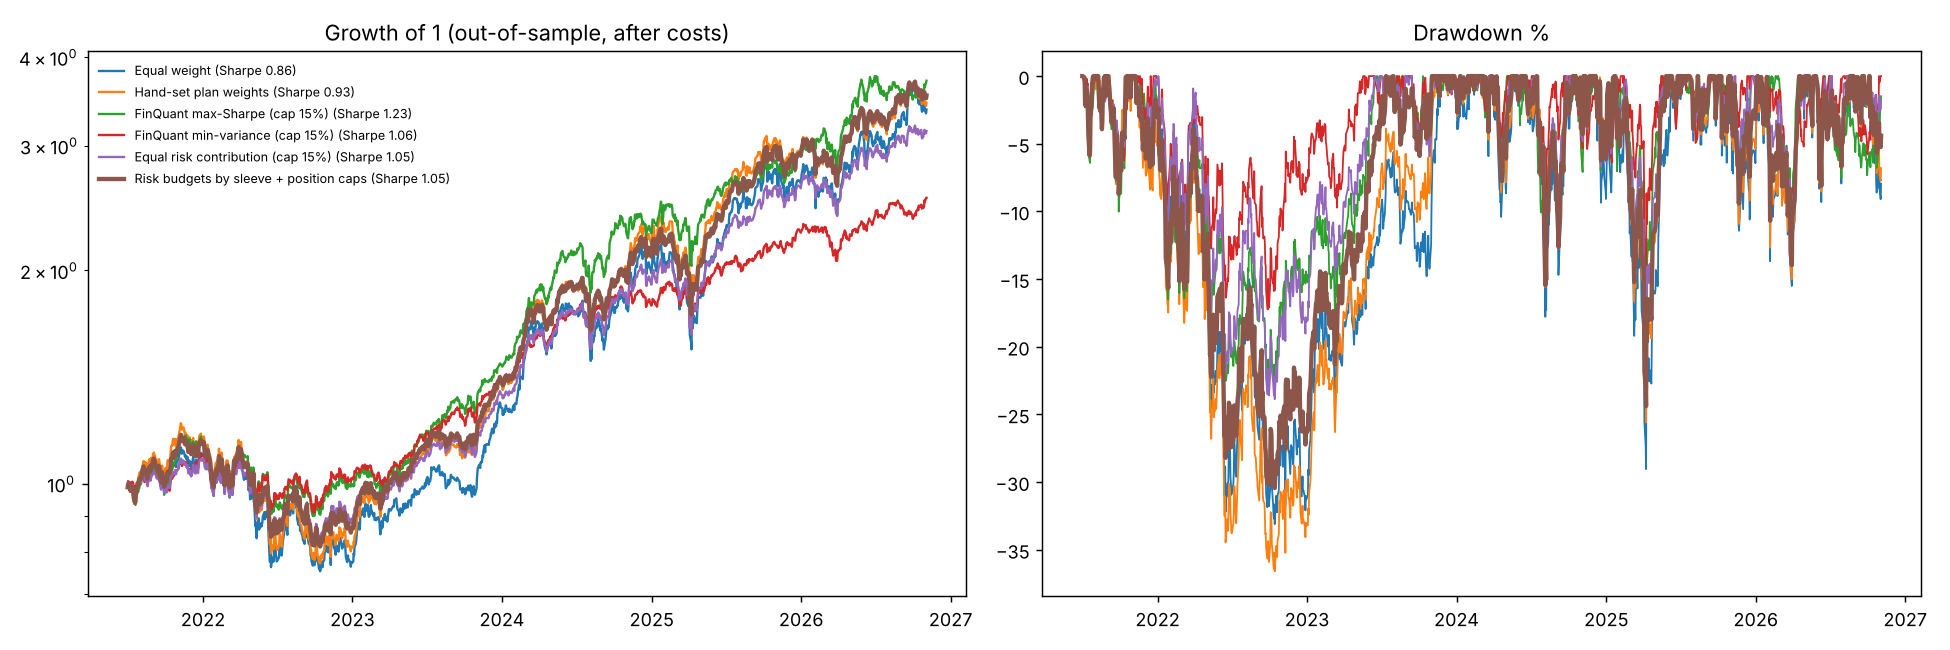
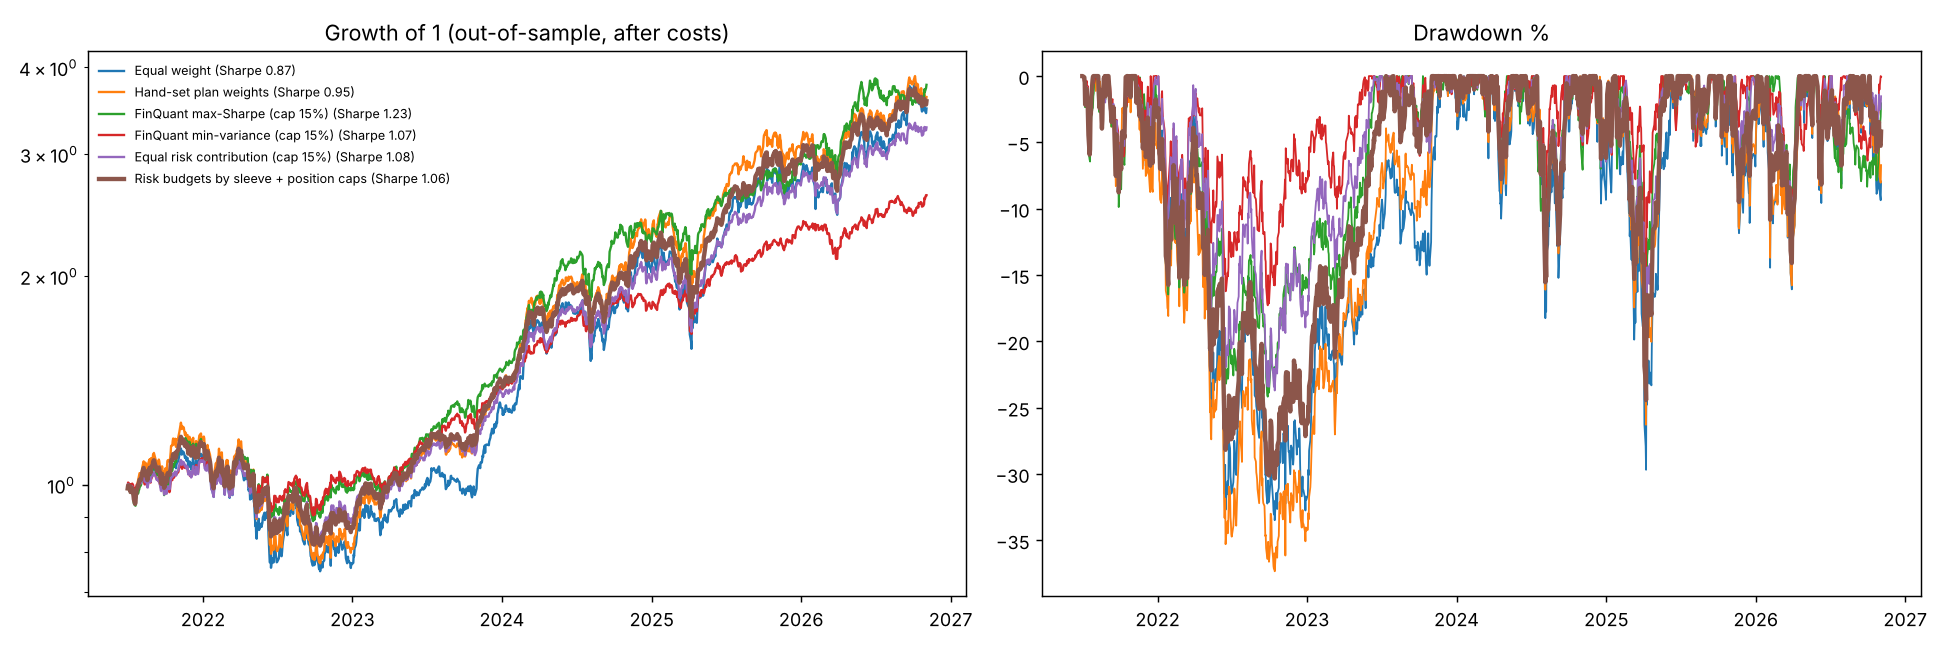
Policy: optional VEU (excluded by default), --include flag; refresh and correct validation numbers in IPS/MY_PLAN
Claude-Session: https://claude.ai/code/session_01NJmfEZVHQN9Pen9tTm1HFs

diff --git a/scripts/construct.py b/scripts/construct.py
@@ -44,7 +44,7 @@ POLICY = json.loads((ROOT / "data" / "policy.json").read_text())
 TARGETS = json.loads((ROOT / "data" / "targets.json").read_text())
 YAHOO = {"BTC": "BTC-USD", "ETH": "ETH-USD", "UNI": "UNI7083-USD", "NEAR": "NEAR-USD", "QQQM": "QQQM", "SMH": "SMH", "NVDA": "NVDA", "SKHY": "SKHY",
          "QTUM": "QTUM", "VST": "VST", "ITA": "ITA", "NLR": "NLR", "UFO": "UFO", "LLY": "LLY", "HOOD": "HOOD", "GEV": "GEV", "PICK": "PICK",
-         "INDA": "INDA", "CRSP": "CRSP", "V": "V", "MA": "MA", "WORLD": "VT"}  # WORLD is priced with VT (all-world, USD) for history
+         "INDA": "INDA", "CRSP": "CRSP", "V": "V", "MA": "MA", "WORLD": "VT", "VEU": "VEU"}  # WORLD is priced with VT (all-world, USD) for history
 COST = {"crypto": 0.0025}  # one-way cost: crypto 25bp, everything else 10bp (assumptions)
 NAMES = [n for n in POLICY["sleeves"] if n not in POLICY.get("exclude", [])]
 
@@ -63,7 +63,7 @@ def panel(start="2017-06-01") -> pd.DataFrame:
     cal = px["QQQ"].dropna().index
     P = px.reindex(cal).ffill(limit=5)
     out = pd.DataFrame(index=cal)
-    for n in NAMES:
+    for n in POLICY["sleeves"]:
         out[n] = P[YAHOO[n]]
     # QQQM <- QQQ (same market, near-identical): scale at the junction
     q, qq = out["QQQM"].dropna(), P["QQQ"]
@@ -264,12 +264,16 @@ def main():
     ap.add_argument("--validate", action="store_true")
     ap.add_argument("--build", action="store_true")
     ap.add_argument("--preset", choices=list(POLICY.get("presets", {})), help="risk-budget preset from data/policy.json (default: active_preset)")
+    ap.add_argument("--include", nargs="*", default=[], help="un-exclude positions listed in policy 'exclude' (e.g. VEU)")
     ap.add_argument("--no-write", action="store_true", help="do not write targets_optimised.json / construction.md")
     ap.add_argument("--out", default=str(ROOT / "reports" / "latest"))
     a = ap.parse_args()
     out = pathlib.Path(a.out)
     POLICY["risk_budget_pct"] = POLICY["presets"][a.preset or POLICY["active_preset"]]
-    P = panel()
+    global NAMES
+    POLICY["exclude"] = [x for x in POLICY.get("exclude", []) if x not in a.include]
+    NAMES = [n for n in POLICY["sleeves"] if n not in POLICY["exclude"]]
+    P = panel()[NAMES]
     md = ["# Portfolio construction", ""]
     if a.validate:
         series, turn, navg = walk_forward(P)

diff --git a/reports/latest/construction.md b/reports/latest/construction.md
@@ -1,20 +1,20 @@
 # Portfolio construction
 
-## 1. Out-of-sample validation (2021-07-01 to 2026-11-03, monthly refit on the previous 3 years, ~21 assets available on average)
+## 1. Out-of-sample validation (2021-07-01 to 2026-11-03, monthly refit on the previous 3 years, ~20 assets available on average)
 | Method | CAGR % | vol % | Sharpe | max drawdown % | worst 20d % | turnover %/yr |
 |---|---|---|---|---|---|---|
-| Equal weight | 25.7 | 26.3 | 0.86 | -33.1 | -18.7 | 60.0 |
-| Hand-set plan weights | 26.2 | 24.8 | 0.93 | -36.6 | -17.1 | 52.1 |
-| FinQuant max-Sharpe (cap 15%) | 27.9 | 20.2 | 1.23 | -23.1 | -15.5 | 109.0 |
-| FinQuant min-variance (cap 15%) | 19.1 | 15.2 | 1.06 | -17.3 | -10.4 | 48.3 |
-| Equal risk contribution (cap 15%) | 24.0 | 20.1 | 1.05 | -23.9 | -13.6 | 50.2 |
-| Risk budgets by sleeve + position caps | 26.7 | 22.6 | 1.05 | -30.4 | -14.7 | 53.2 |
+| Equal weight | 26.5 | 27.0 | 0.87 | -33.5 | -19.1 | 61.7 |
+| Hand-set plan weights | 27.4 | 25.6 | 0.95 | -37.3 | -17.5 | 53.9 |
+| FinQuant max-Sharpe (cap 15%) | 28.3 | 20.5 | 1.23 | -24.2 | -15.4 | 99.3 |
+| FinQuant min-variance (cap 15%) | 19.8 | 15.8 | 1.07 | -17.3 | -10.8 | 52.5 |
+| Equal risk contribution (cap 15%) | 25.0 | 20.4 | 1.08 | -23.7 | -13.8 | 52.1 |
+| Risk budgets by sleeve + position caps | 27.0 | 22.7 | 1.06 | -30.3 | -14.7 | 53.7 |
 
 Costs: 10bp per side (25bp crypto). All methods see the same hindsight-picked universe, so compare rows against each other.
 ## 2. Optimised targets (% of whole book, 5% cash on top) vs my hand-set ones
 | Ticker | now % | optimised A | optimised B | optimised C | hand-set A | hand-set B | hand-set C |
 |---|---|---|---|---|---|---|---|
-| BTC | 22.0 | 12.5 | 12.1 | 11.3 | 17.0 | 14.5 | 13.0 |
+| BTC | 21.9 | 12.5 | 12.1 | 11.3 | 17.0 | 14.5 | 13.0 |
 | CRSP | 0.0 | 0.0 | 0.0 | 2.3 | 0.0 | 0.0 | 2.0 |
 | ETH | 9.1 | 5.0 | 4.8 | 4.5 | 6.0 | 5.0 | 4.5 |
 | GEV | 0.0 | 0.0 | 2.8 | 2.2 | 0.0 | 3.0 | 3.0 |
@@ -24,17 +24,17 @@ Costs: 10bp per side (25bp crypto). All methods see the same hindsight-picked un
 | LLY | 4.0 | 5.7 | 5.7 | 5.7 | 4.0 | 4.0 | 4.0 |
 | MA | 0.0 | 7.6 | 7.6 | 7.6 | 4.0 | 5.0 | 5.5 |
 | NEAR | 1.7 | 1.3 | 1.3 | 1.2 | 1.5 | 1.0 | 1.0 |
-| NLR | 3.0 | 5.2 | 3.5 | 2.7 | 3.0 | 3.0 | 3.0 |
-| NVDA | 5.0 | 5.0 | 4.7 | 4.5 | 5.0 | 4.5 | 4.5 |
+| NLR | 2.9 | 5.2 | 3.5 | 2.7 | 3.0 | 3.0 | 3.0 |
+| NVDA | 5.1 | 5.0 | 4.7 | 4.5 | 5.0 | 4.5 | 4.5 |
 | PICK | 0.0 | 0.0 | 5.1 | 3.8 | 0.0 | 3.0 | 3.0 |
-| QQQM | 14.9 | 11.4 | 10.8 | 10.0 | 12.0 | 10.5 | 9.5 |
+| QQQM | 14.8 | 11.4 | 10.8 | 10.0 | 12.0 | 10.5 | 9.5 |
 | QTUM | 3.0 | 4.9 | 4.5 | 4.3 | 3.0 | 3.0 | 3.0 |
-| SKHY | 5.0 | 4.6 | 4.3 | 4.1 | 5.0 | 4.5 | 4.0 |
-| SMH | 9.8 | 5.3 | 4.9 | 4.7 | 7.0 | 6.5 | 6.0 |
+| SKHY | 5.1 | 4.6 | 4.3 | 4.1 | 5.0 | 4.5 | 4.0 |
+| SMH | 9.9 | 5.3 | 4.9 | 4.7 | 7.0 | 6.5 | 6.0 |
 | UFO | 2.0 | 5.5 | 3.8 | 2.9 | 2.0 | 2.0 | 2.0 |
 | UNI | 2.0 | 1.4 | 1.3 | 1.3 | 1.5 | 1.5 | 1.5 |
 | V | 0.0 | 7.6 | 7.6 | 7.5 | 4.0 | 5.0 | 5.5 |
-| VST | 4.9 | 3.8 | 2.7 | 2.1 | 5.0 | 4.5 | 4.0 |
+| VST | 5.1 | 3.8 | 2.7 | 2.1 | 5.0 | 4.5 | 4.0 |
 
 ## 3. Risk by sleeve (% of total portfolio risk) at each optimised stage
 | sleeve | A | B | C |

diff --git a/reports/latest/IPS.md b/reports/latest/IPS.md
@@ -27,13 +27,13 @@ Written down so decisions are made by rules, not by mood. Numbers come from `scr
 
 | Method | CAGR | Vol | Sharpe | Worst drop |
 |---|---|---|---|---|
-| Hand-set weights (my first plan) | 26.2% | 24.8% | 0.93 | -36.6% |
-| **Risk budgets + caps (used)** | 26.7% | 22.6% | 1.05 | -30.4% |
-| Equal risk contribution | 24.0% | 20.1% | 1.05 | -23.9% |
-| FinQuant max-Sharpe (cap 15%) | 27.9% | 20.2% | 1.23 | -23.1% |
-| Equal weight | 25.7% | 26.3% | 0.86 | -33.1% |
+| Hand-set weights (my first plan) | 27.4% | 25.6% | 0.95 | -37.3% |
+| **Risk budgets + caps (used)** | 27.0% | 22.7% | 1.06 | -30.3% |
+| Equal risk contribution | 25.0% | 20.4% | 1.08 | -23.7% |
+| FinQuant max-Sharpe (cap 15%) | 28.3% | 20.5% | 1.23 | -24.2% |
+| Equal weight | 26.5% | 27.0% | 0.87 | -33.5% |
 
-- Max-Sharpe scores best but is **not used**: the 22 names were picked with hindsight (winners), which flatters any method that chases recent winners, it trades twice as much (109% a year), and in my 100-year test optimisers lost to simple rules. Risk-based construction improved on my hand-set weights in every lookback window tested (504, 756, 1008 days).
+- Max-Sharpe scores best but is **not used**: the 22 names were picked with hindsight (winners), which flatters any method that chases recent winners, it trades about twice as much (99% a year), and in my 100-year test optimisers lost to simple rules. Risk-based construction kept about the same return as my hand-set weights with clearly lower risk (volatility -2.9 pts, worst drop -7 pts); an earlier run showed the same pattern for lookbacks of 504, 756 and 1008 days.
 - Limits: one AI/crypto boom plus the 2022 bear; 22 hindsight-picked names; covariance is estimated; risk budgets are my policy choices.
 
 ## 5. Implementation rules

diff --git a/reports/latest/MY_PLAN.md b/reports/latest/MY_PLAN.md
@@ -59,7 +59,7 @@ Two thirds of month 1 goes to Visa and Mastercard because they are the biggest h
 After 3 years (constant prices): crypto 19% (vs 38% pro rata), AI/semis/tech 28.5% (vs 41%), other thesis 35%, Visa+Mastercard 15.6%, 21 positions.
 
 ## 5. What the optimisation changed vs my first plan
-- Out-of-sample (2021-2026): CAGR 26.7% vs 26.2%, volatility 22.6% vs 24.8%, worst drop -30% vs -37%.
+- Out-of-sample (2021-2026): about the same return (27.0% vs 27.4% a year) with lower risk: volatility 22.7% vs 25.6%, worst drop -30% vs -37%.
 - Target mixes: volatility 24.7% / 24.2% / 23.0% (stages A/B/C) vs 30.3% today; worst drop about -22 to -24% vs -30%; crypto share of risk 30-32% vs 52% today.
 - Sizes moved: BTC 12.5% (was 17), Visa/Mastercard 7.6% each (was 4), India 5.7% (was 3), HOOD 2.5% (was 3).
 
